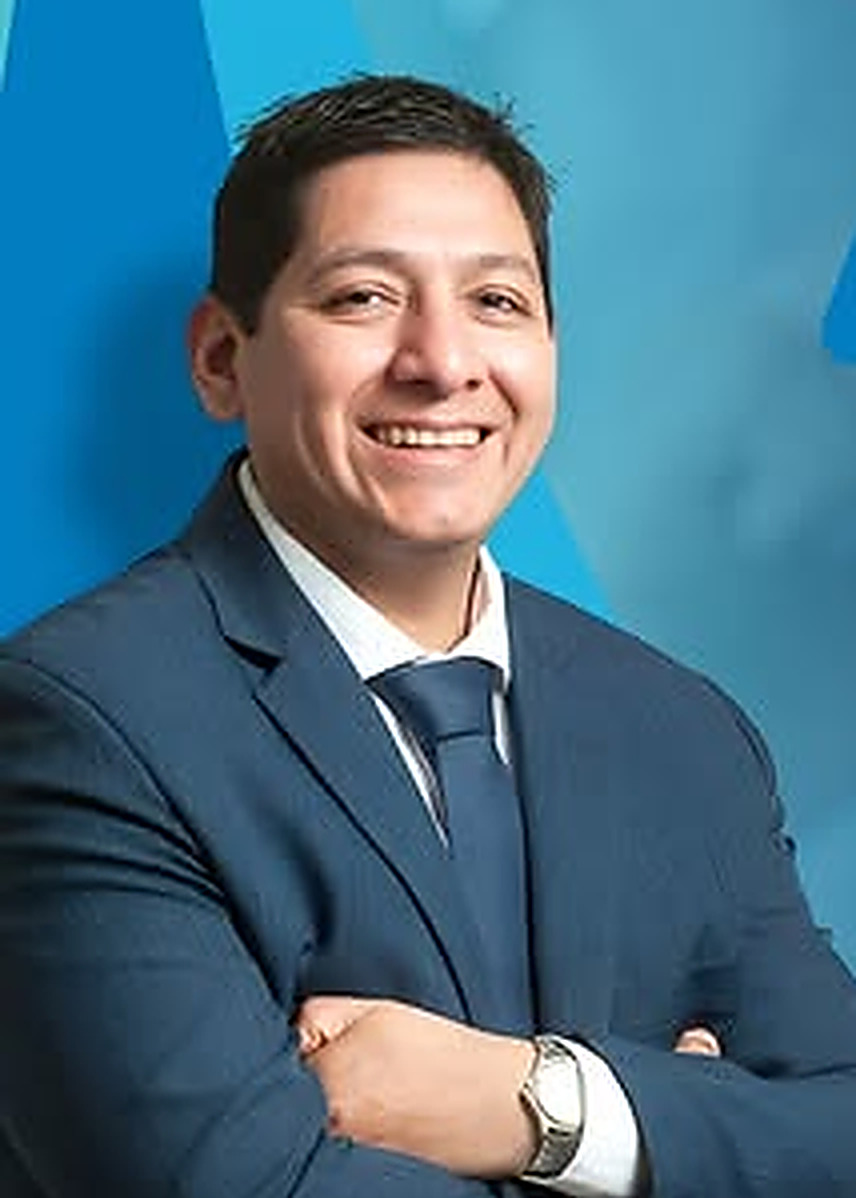
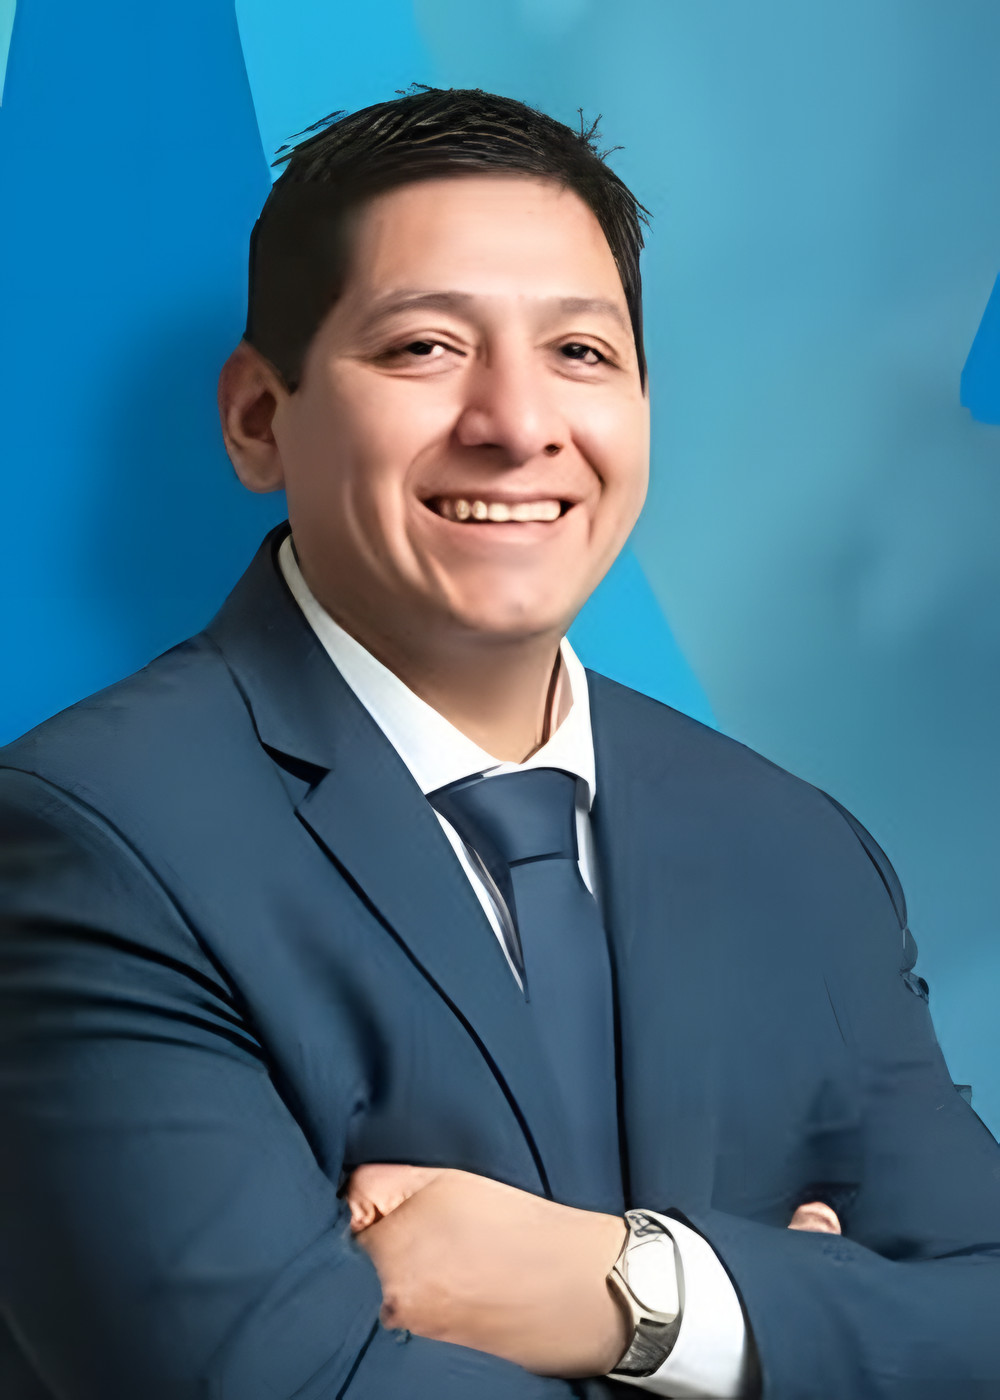
angel-calapena: retrato mejorado con IA (Upscayl)

diff --git a/angel-calapena/index.html b/angel-calapena/index.html
@@ -411,7 +411,7 @@ input:focus,select:focus,textarea:focus{outline:none;border-color:var(--navy);bo
       <a class="btn btn-line" href="blog/">Leer el blog</a>
     </div>
     <div class="lote" aria-hidden="false">
-      <div class="foto"><img src="img/retrato.jpg" alt="Angel Calapeña, de traje azul, sonriendo con los brazos cruzados" width="856" height="1198" fetchpriority="high"></div>
+      <div class="foto"><img src="img/retrato.jpg" alt="Angel Calapeña, de traje azul, sonriendo con los brazos cruzados" width="1000" height="1400" fetchpriority="high"></div>
       <svg viewBox="0 0 400 560" aria-hidden="true">
         <path class="traza borde" d="M18 30 L384 10 L392 540 L8 552 Z"/>
         <path class="traza municipal" d="M-14 566 L414 550"/>
